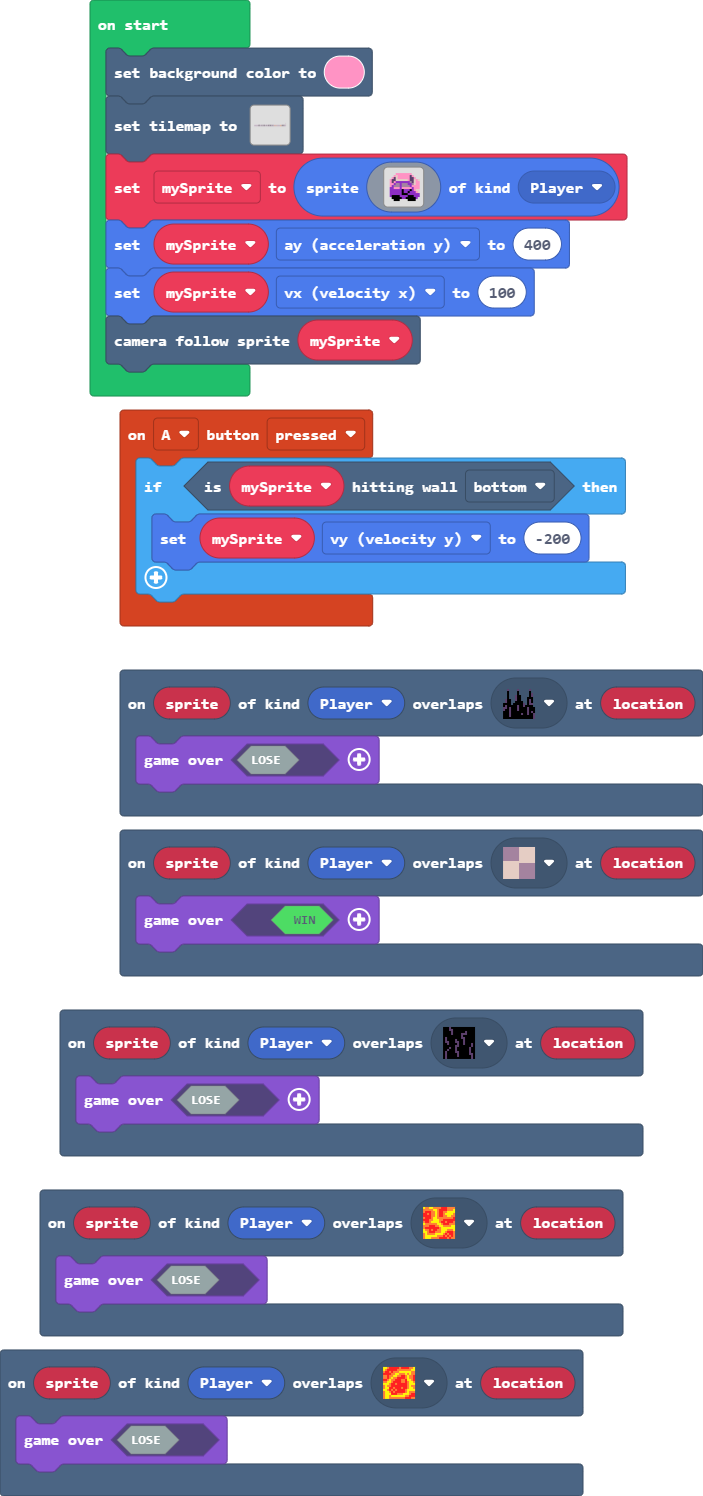
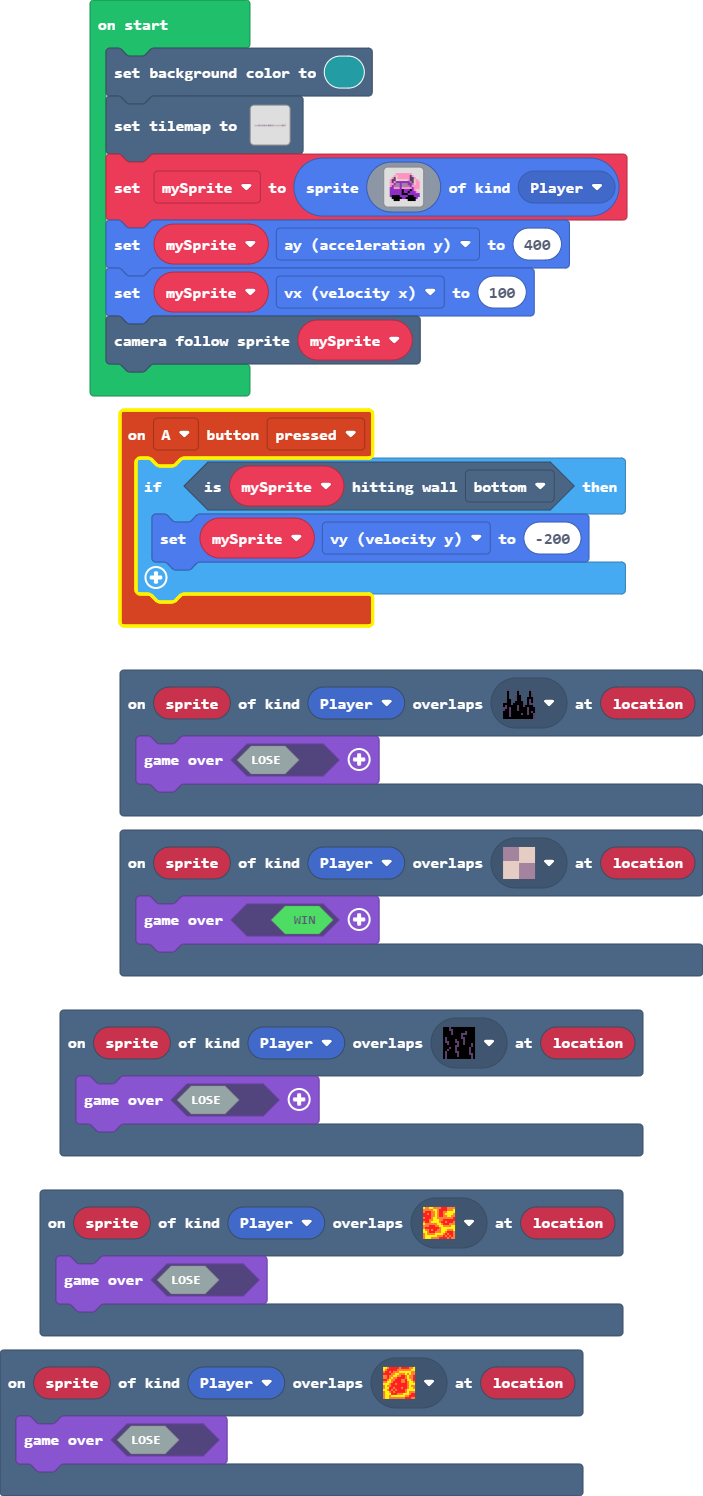
Update main.blocks, main.ts

diff --git a/main.ts b/main.ts
@@ -19,7 +19,7 @@ scene.onOverlapTile(SpriteKind.Player, sprites.dungeon.hazardLava1, function (sp
     game.gameOver(false)
 })
 let mySprite: Sprite = null
-scene.setBackgroundColor(3)
+scene.setBackgroundColor(6)
 tiles.setTilemap(tilemap`level2`)
 mySprite = sprites.create(img`
     . . . . . . . . . . . . . . . . 
